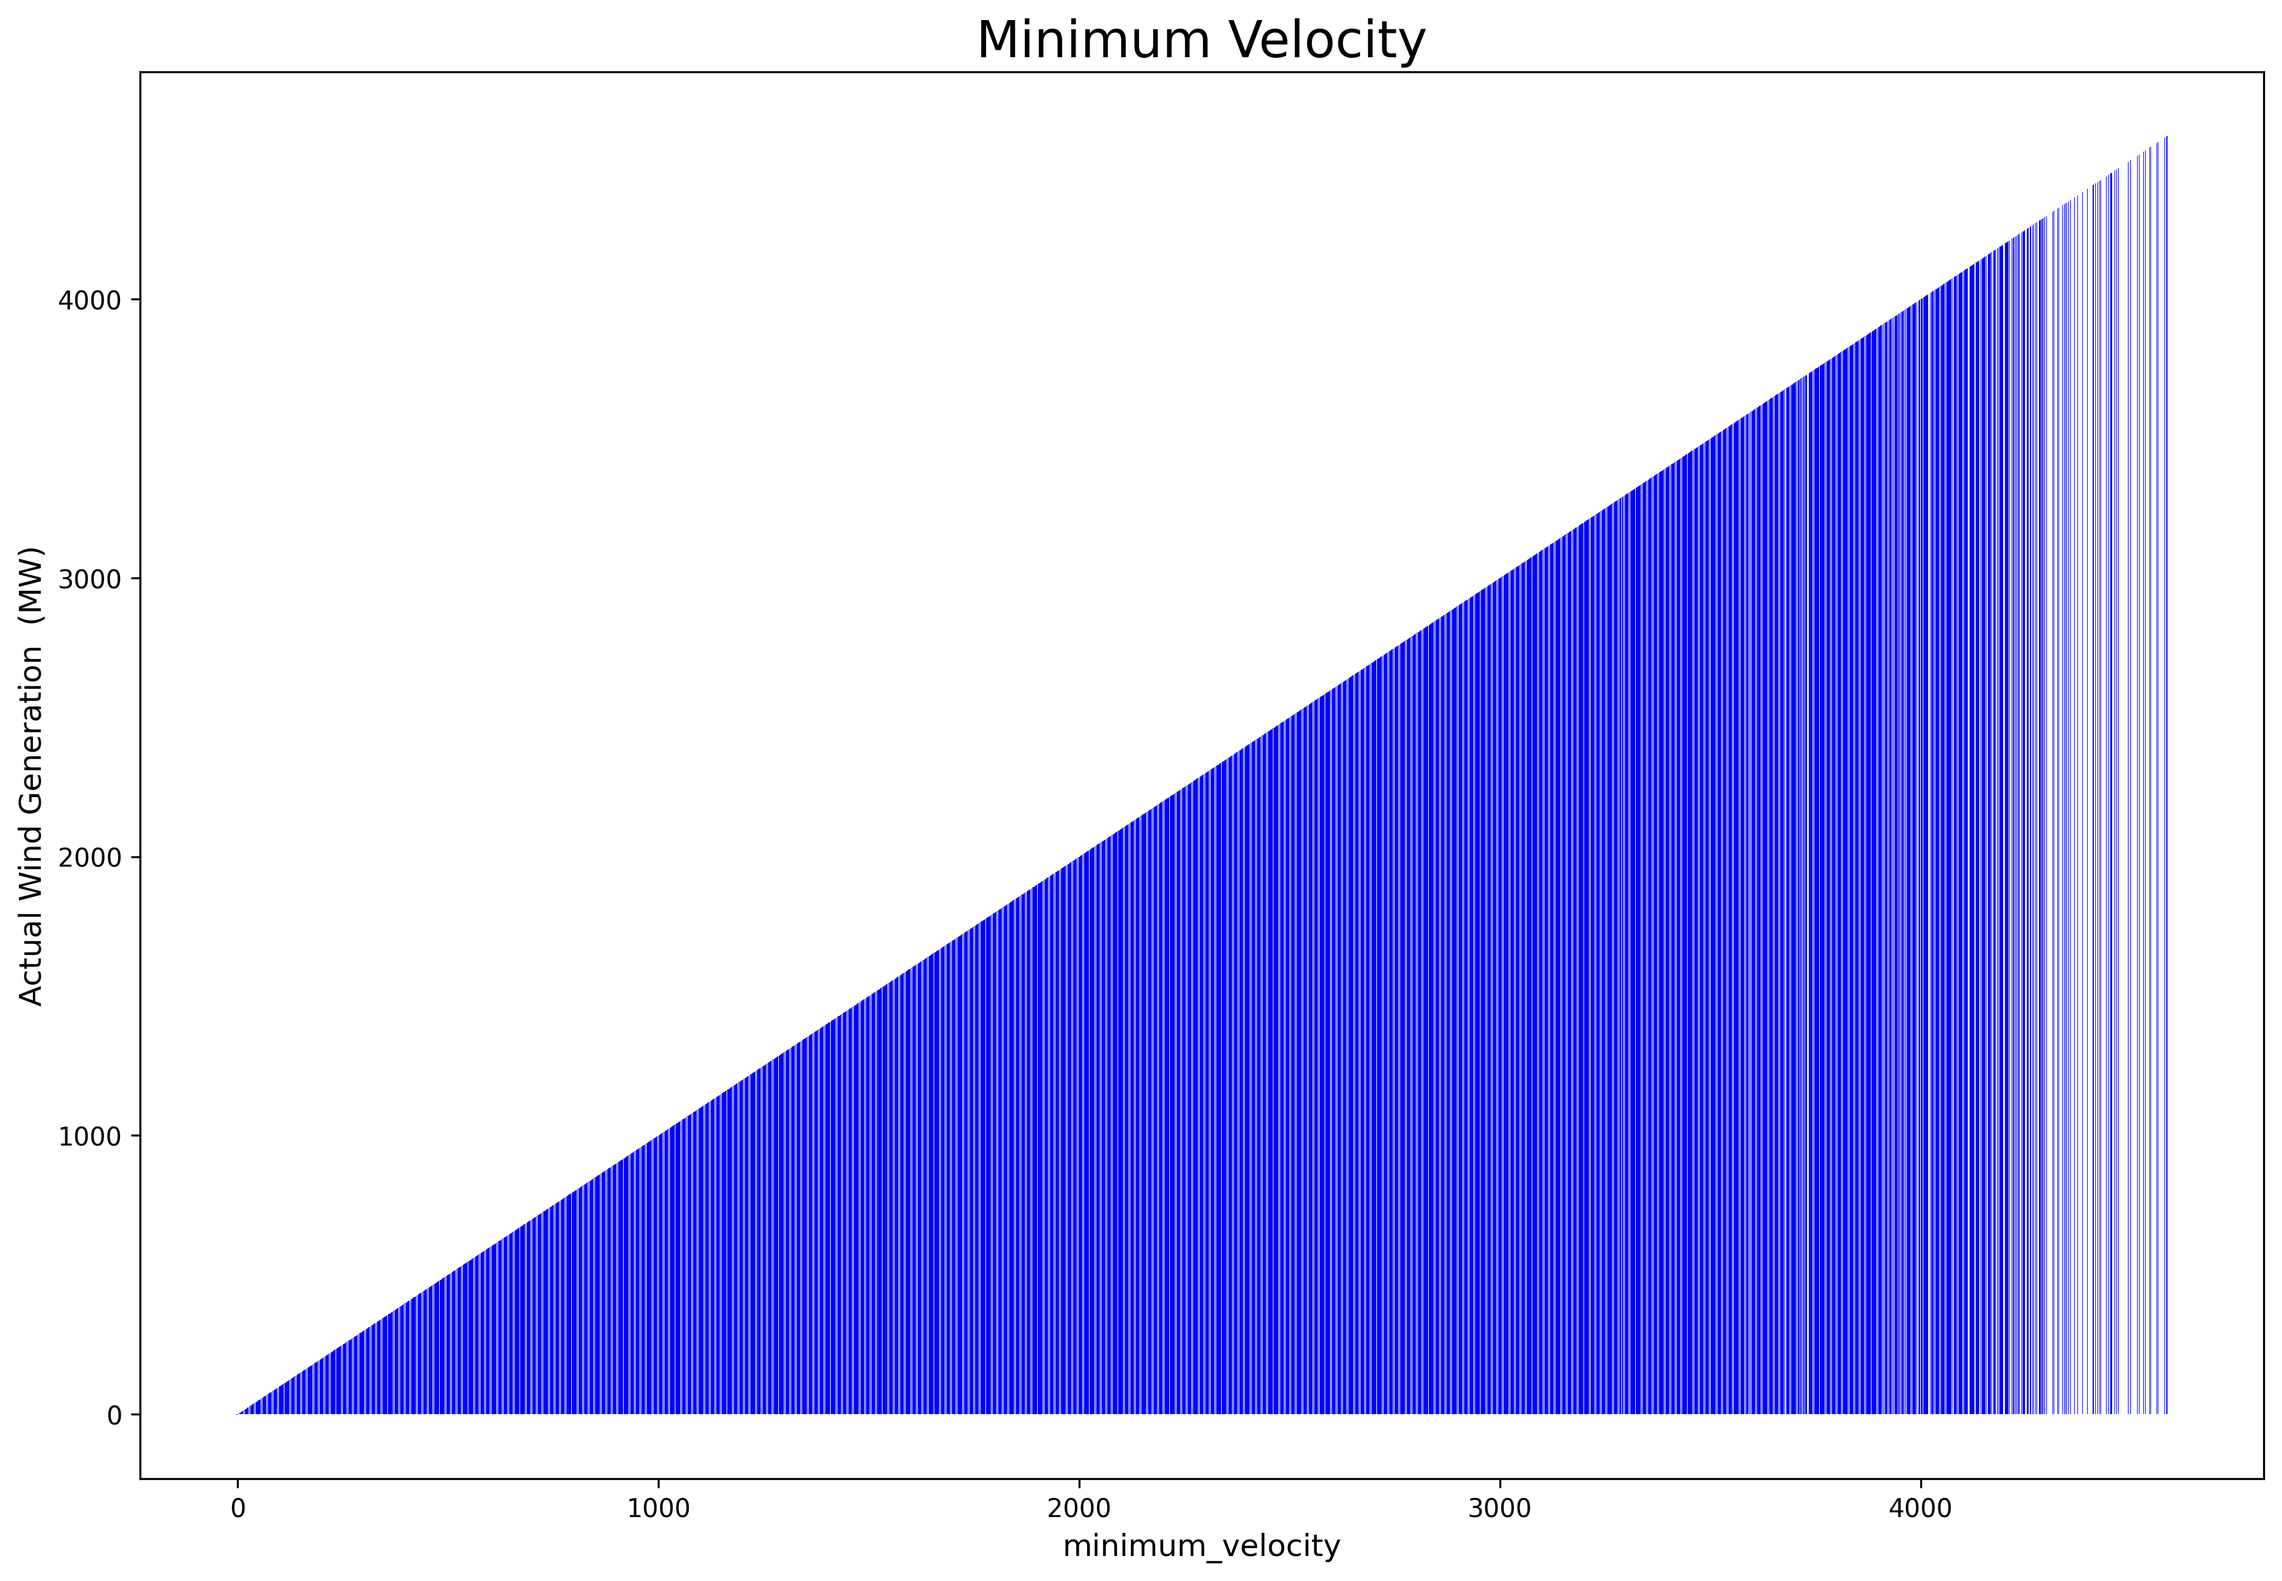
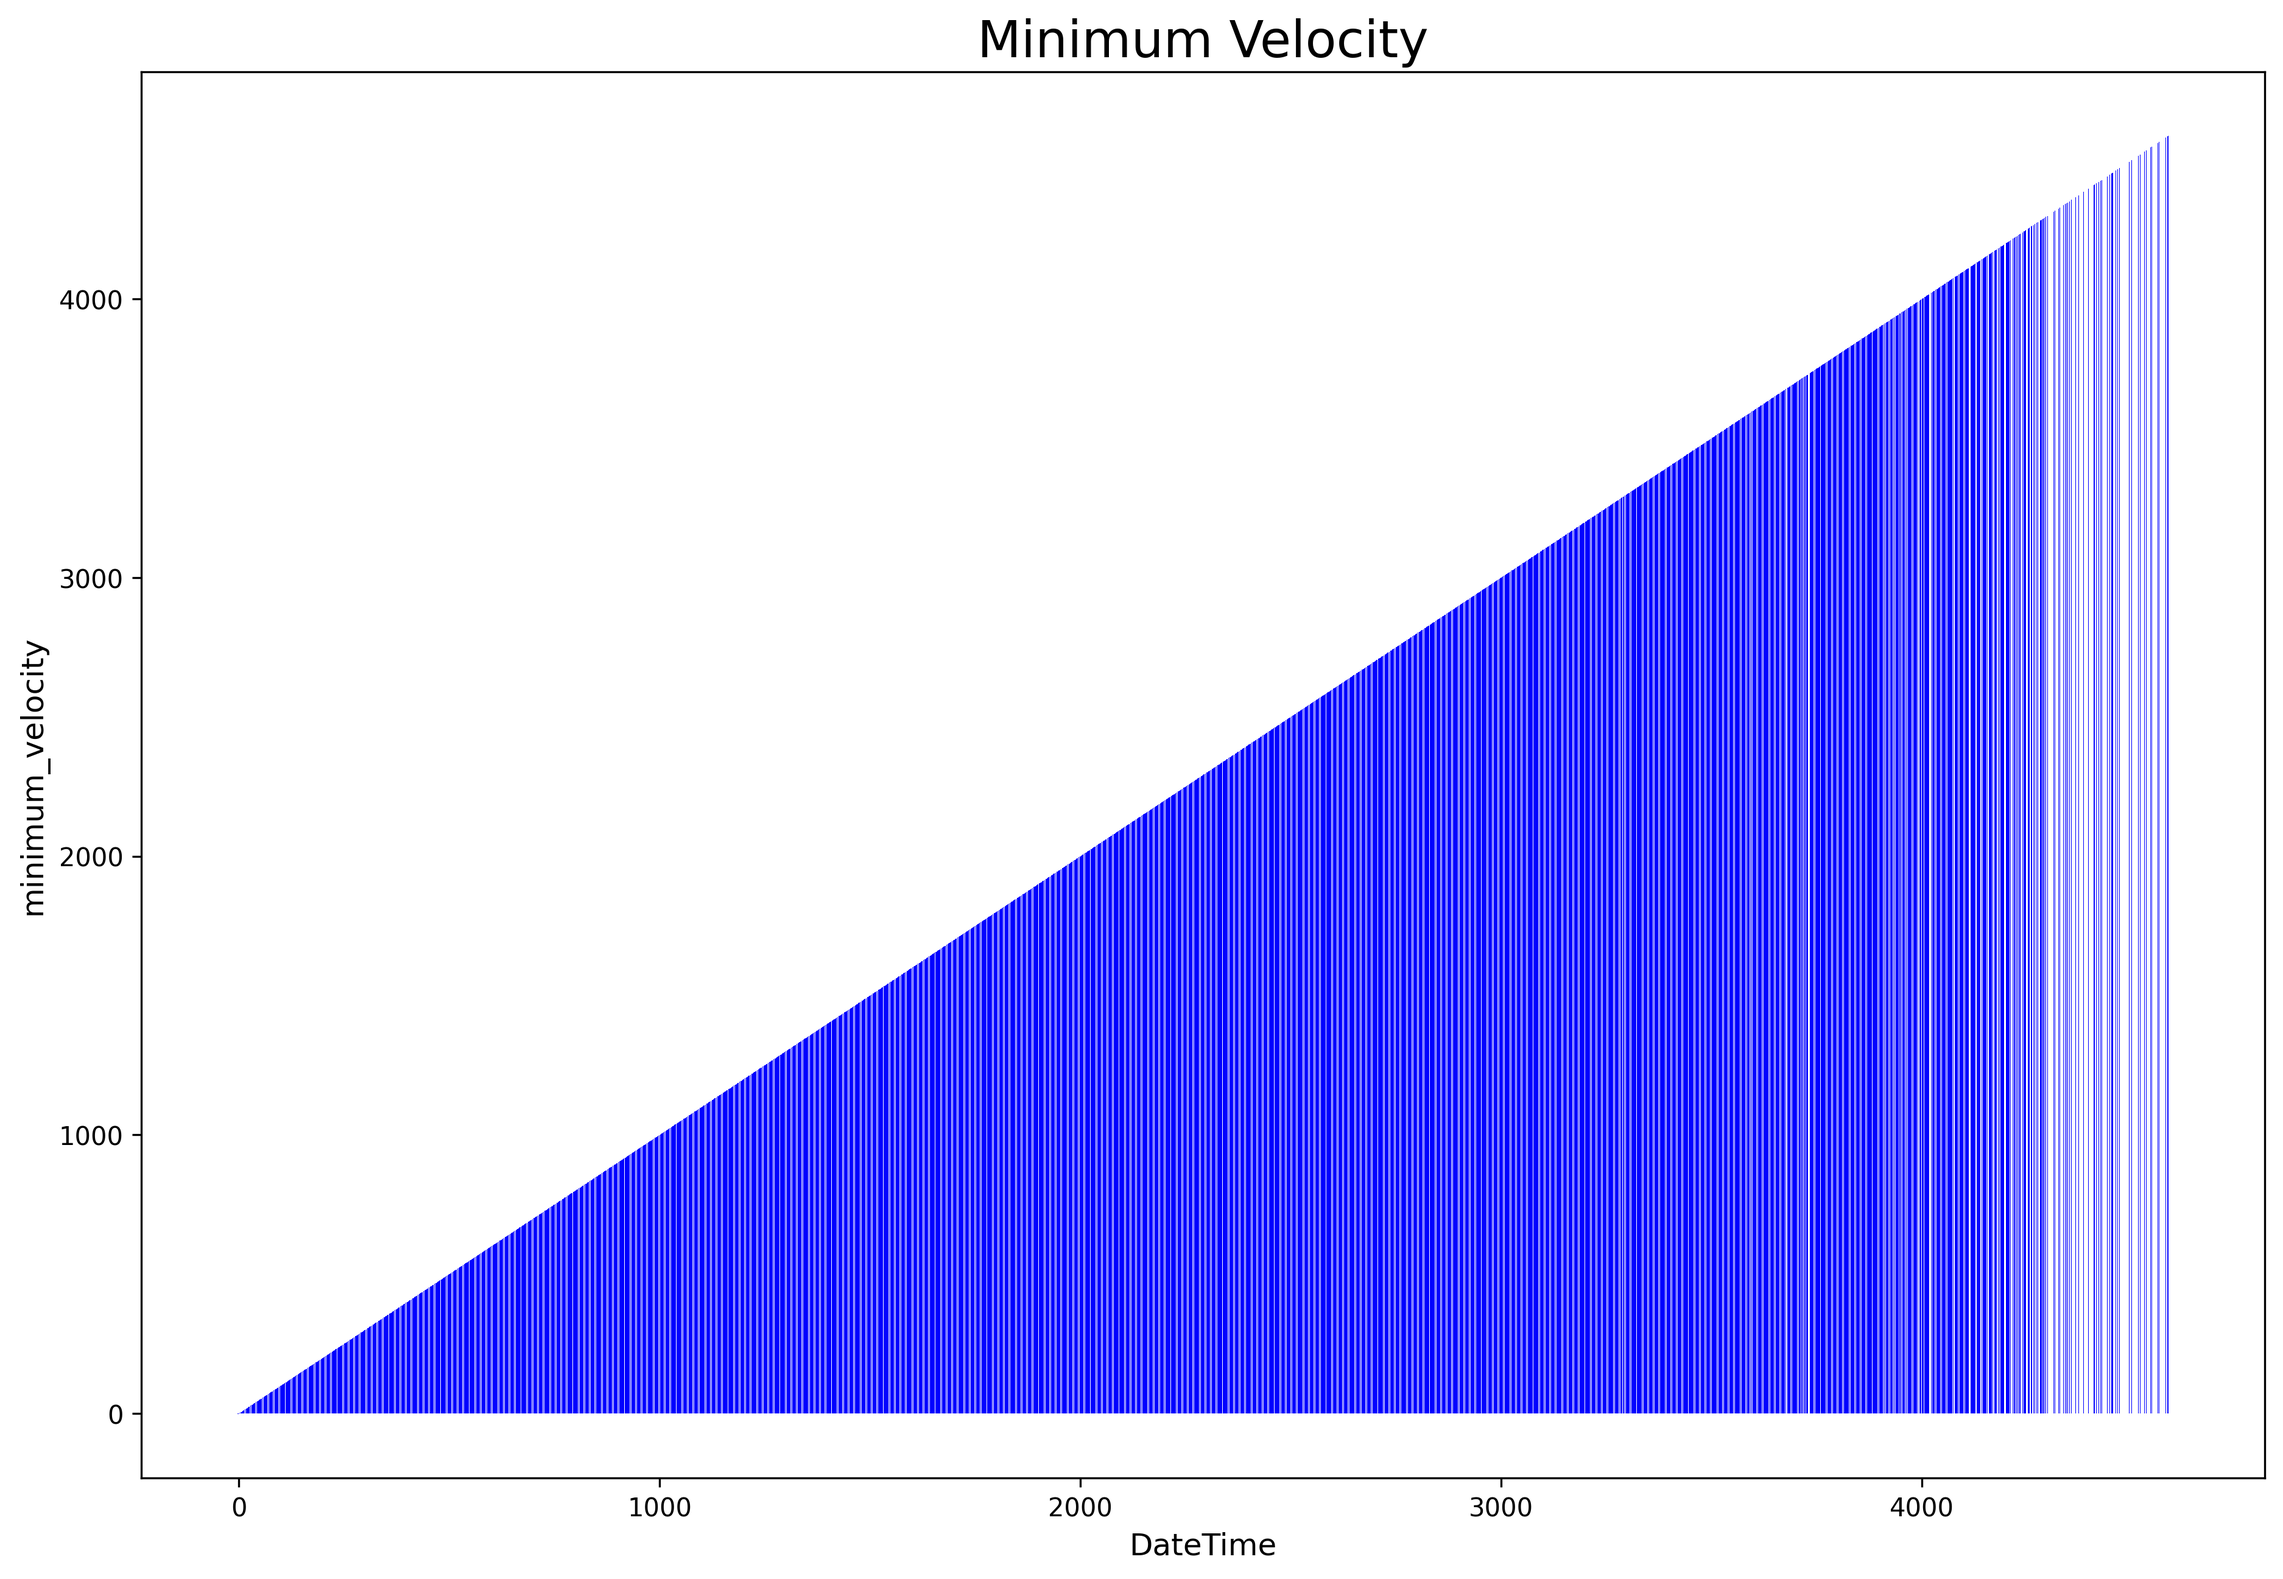
Forecast Wind Generation (MW)

diff --git a/Hydrogen_Production_by_Wind_Turbines .py b/Hydrogen_Production_by_Wind_Turbines .py
@@ -11,26 +11,39 @@ df_wind_data.head()
 df_wind_data.info()
 #id;year;day;datetm;min;ws_25;wd_25;tp_25;ws_50;wd_50;tp_50
 #DateTime,Actual Wind Generation  (MW),Forecast Wind Generation (MW)
-minimum_velocity = df_wind_data["Actual Wind Generation  (MW)"].min()
-maximum_velocity = df_wind_data["Actual Wind Generation  (MW)"].max()
-print('Minimum Velocity = '+str(minimum_velocity)+'MW')
-print('Maximum Velocity = '+str(maximum_velocity)+'MW')
-median_velocity = np.arange(0.5, math.ceil(minimum_velocity))
-lower_limit_velocity = np.floor(median_velocity)
-upper_limit_velocity = np.ceil(median_velocity)
-dictionary_frequency_distribution = {'Lower Limit Velocity [m/s]':lower_limit_velocity,'Upper Limit Velocity [m/s]':upper_limit_velocity, 'Median Velocity [m/s]':median_velocity, 'Absolute Frequency':np.zeros}
-df_frequency_distribution = pd.DataFrame(dictionary_frequency_distribution)
-df_frequency_distribution.head(15)
-for i in df_wind_data['DateTime']:
-    for j in range(0, df_frequency_distribution.shape[0]):
-        if (i < df_frequency_distribution['Upper Limit Velocity [m/s]'][j]) and (i > df_frequency_distribution['Lower Limit Velocity [m/s]'][j]):
-            df_frequency_distribution['Absolute Frequency'][j] = 1 + df_frequency_distribution['Absolute Frequency'][j]
-df_frequency_distribution.insert(loc = (df_frequency_distribution.shape[1]),column = 'Relative Frequency', value = df_frequency_distribution['Absolute Frequency']/df_frequency_distribution['Absolute Frequency'].sum())
-df_frequency_distribution.insert(loc = (df_frequency_distribution.shape[1]),column = 'Relative Frequency [%]', value = 100*df_frequency_distribution['Relative Frequency'])
-df_frequency_distribution.head(15)
-df_wind_genereation=(df_wind_data["Actual Wind Generation  (MW)"],df_wind_data['Forecast Wind Generation (MW)'])
-plt.bar(df_wind_genereation[minimum_velocity],df_wind_data['Actual Wind Generation  (MW)'], color='b')
-plt.title('Minimum Velocity', fontsize=20)
-plt.ylabel('Actual Wind Generation  (MW)', fontsize=12)
-plt.xlabel('minimum_velocity', fontsize=12)
-plt.savefig('velocity_histogram.png', dpi=300, bbox_inches='tight')
+minimum_velocity_Actual = df_wind_data["Actual Wind Generation  (MW)"].min()
+maximum_velocity_Actual = df_wind_data["Actual Wind Generation  (MW)"].max()
+minimum_velocity_Forecast = df_wind_data["Forecast Wind Generation (MW)"].min()
+maximum_velocity_Forecast = df_wind_data["Forecast Wind Generation (MW)"].max()
+print('Minimum Velocity Actual = '+str(minimum_velocity_Actual)+'MW')
+print('Maximum Velocity Actual = '+str(maximum_velocity_Actual)+'MW')
+print('Minimum Velocity Forecast = '+str(minimum_velocity_Forecast)+'MW')
+print('Maximum Velocity Forecast = '+str(maximum_velocity_Forecast)+'MW')
+median_velocity_Actual = np.arange(0.5, math.ceil(minimum_velocity_Actual))
+median_velocity_Forecast = np.arange(0.5, math.ceil(minimum_velocity_Forecast))
+lower_limit_velocity_Actual = np.floor(median_velocity_Actual)
+upper_limit_velocity_Actual = np.ceil(median_velocity_Actual)
+lower_limit_velocity_Forecast = np.floor(median_velocity_Forecast)
+upper_limit_velocity_Forecast = np.ceil(median_velocity_Forecast)
+dictionary_frequency_distribution_Actual = {'Lower Limit Velocity Actual [m/s]':lower_limit_velocity_Actual,'Upper Limit Velocity [m/s]':upper_limit_velocity_Actual, 'Median Velocity [m/s]':median_velocity_Actual, 'Absolute Frequency':np.zeros}
+dictionary_frequency_distribution_Forecast = {'Lower Limit Velocity Forecast [m/s]':lower_limit_velocity_Forecast,'Upper Limit Velocity [m/s]':upper_limit_velocity_Forecast, 'Median Velocity [m/s]':median_velocity_Forecast, 'Absolute Frequency':np.zeros}
+df_frequency_distribution_Actual = pd.DataFrame(dictionary_frequency_distribution_Actual)
+df_frequency_distribution_Forecast = pd.DataFrame(dictionary_frequency_distribution_Forecast)
+df_frequency_distribution_Actual.head(15)
+df_frequency_distribution_Forecast.head(15)
+for i in df_wind_data['Actual Wind Generation  (MW)']:
+    for j in range(0, df_frequency_distribution_Actual.shape[0]):
+         if (i < df_frequency_distribution_Actual,df_frequency_distribution_Forecast['upper_limit_velocity_Actual [m/s]'][j]) and (i > df_frequency_distribution_Actual['Lower Limit Velocity_Actual [m/s]'][j]):
+            df_frequency_distribution_Actual['Absolute Frequency'][j] = 1 + df_frequency_distribution_Actual['Absolute Frequency'][j]
+df_frequency_distribution_Actual.insert(loc = (df_frequency_distribution_Actual.shape[1]),column = 'Relative Frequency', value = df_frequency_distribution_Actual['Absolute Frequency']/df_frequency_distribution_Actual['Absolute Frequency'].sum())
+df_frequency_distribution_Actual.insert(loc = (df_frequency_distribution_Actual.shape[1]),column = 'Relative Frequency [%]', value = 100*df_frequency_distribution_Actual['Relative Frequency'])
+df_frequency_distribution_Actual.head(15)
+df_wind_genereation_Actual=(df_wind_data["Actual Wind Generation  (MW)"],df_wind_data['Forecast Wind Generation (MW)'])
+plt.bar(df_wind_genereation_Actual[minimum_velocity_Actual],df_wind_data['Actual Wind Generation  (MW)'], color='b')
+plt.show()
+#plt.bar(df_wind_genereation_Forecast[minimum_velocity_Forecast],df_wind_data['Actual Wind Generation  (MW)'], color='b')
+#plt.bar(df_wind_genereation[minimum_velocity_Actual],df_wind_data['Actual Wind Generation  (MW)'], color='b')
+#plt.title('Minimum Velocity', fontsize=20)
+#plt.ylabel('minimum_velocity', fontsize=12)
+#plt.xlabel('DateTime', fontsize=12)
+#plt.savefig('velocity_histogram.png', dpi=300, bbox_inches='tight')
